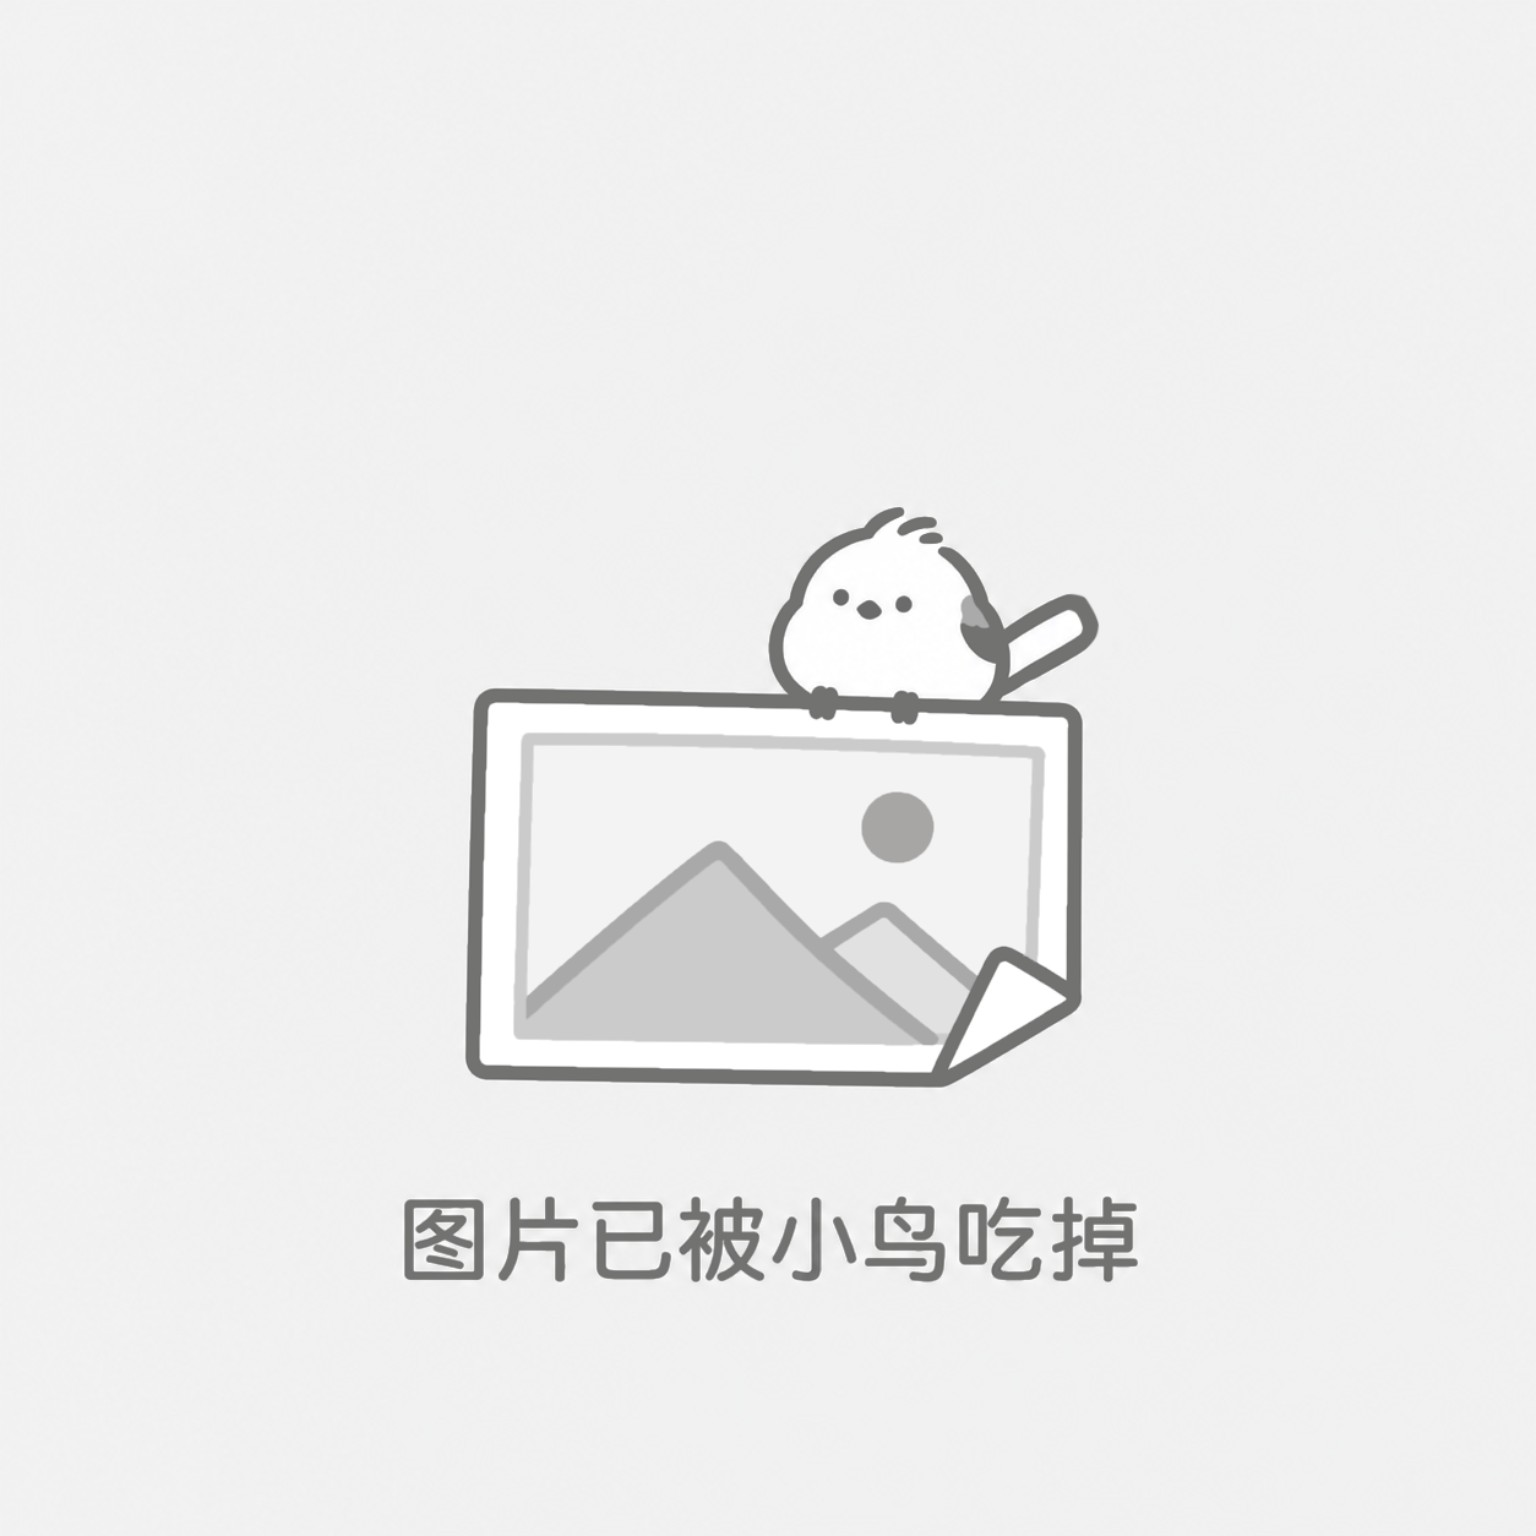
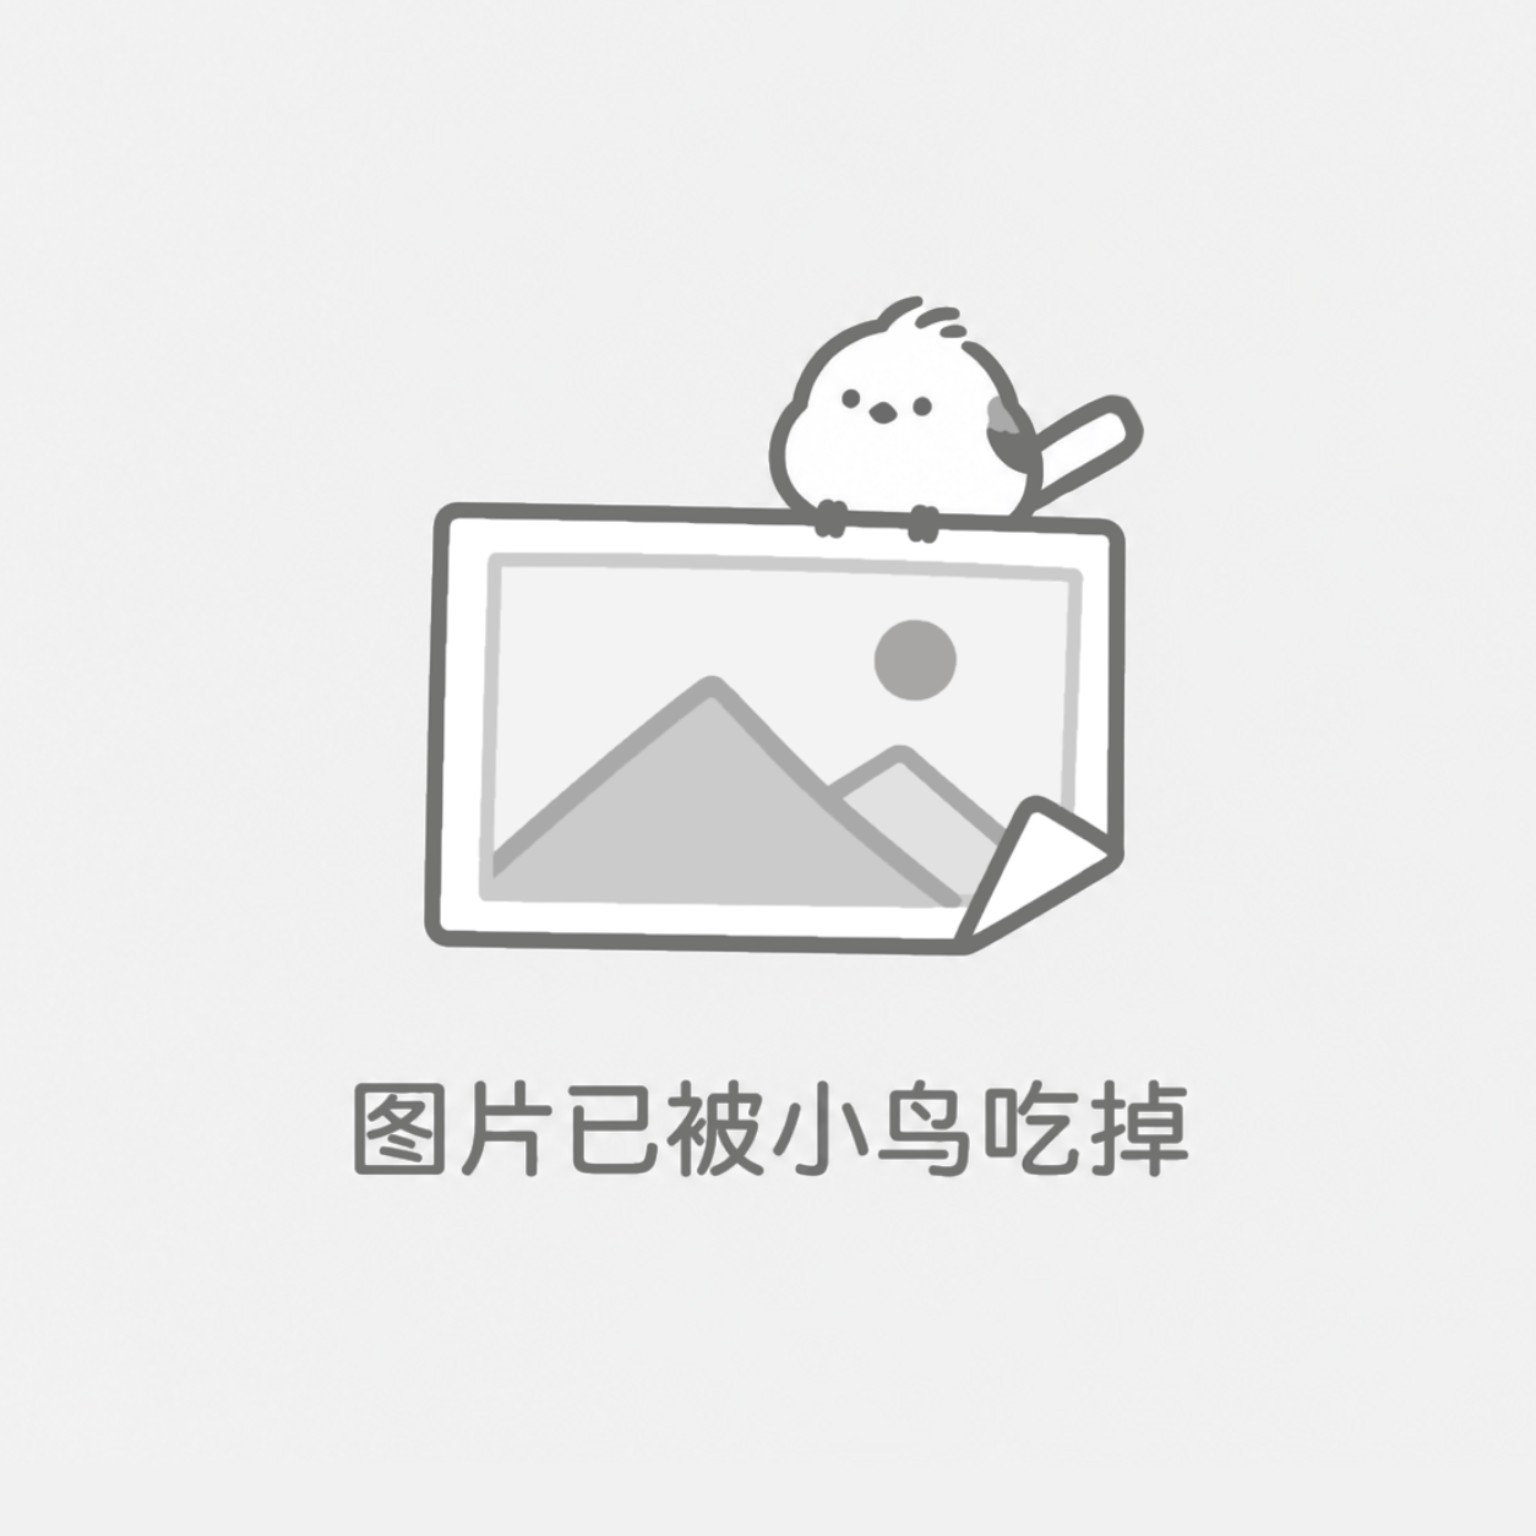
照片预设按框比例选宽版或普通版，更新浅色头像，移除图片库标签文字
- PhotoImage 观察实际框尺寸，宽高比 >= 1.4 用宽版预设，否则用普通版；尺寸变化时重新选择
- 新增 public/images/photo-placeholder-wide.png，替换普通预设与狐狸、小鸟头像
- 个人信息竖版拍立得使用普通预设
- 图片清理标题栏移除「本机图片库」文字及对应 CSS，保留关闭按钮
- 新增说明 docs/photo-preset-sizing.md

Claude-Session: https://claude.ai/code/session_016ZF5nt8Kb8CDXJc19mBmz1

Changed region(s): [[0.2188, 0.1875, 0.7812, 0.8438]]

diff --git a/src/components/shared/PhotoImage.tsx b/src/components/shared/PhotoImage.tsx
@@ -1,10 +1,19 @@
-import {useState, type ImgHTMLAttributes} from 'react';
-import {DEFAULT_PHOTO} from '../../utils/defaultPhoto';
-/** 上传图优先；未上传或读取失败时完整显示预设。 */
+import {useEffect,useRef,useState, type ImgHTMLAttributes} from 'react';
+import {DEFAULT_PHOTO,DEFAULT_PHOTO_WIDE} from '../../utils/defaultPhoto';
+/** 上传图优先；空照片按实际容器比例选择预设，避免方图在宽窗口里缩小。 */
 export function PhotoImage({src,style,onError,...props}:ImgHTMLAttributes<HTMLImageElement>){
   const [failed,setFailed]=useState<string>();
+  const [wide,setWide]=useState(false);
+  const image=useRef<HTMLImageElement>(null);
+  useEffect(()=>{
+    const element=image.current;if(!element)return;
+    const measure=()=>{const {width,height}=element.getBoundingClientRect();if(width>0&&height>0)setWide(width/height>=1.4);};
+    measure();
+    const observer=new ResizeObserver(measure);observer.observe(element);
+    return()=>observer.disconnect();
+  },[]);
   const custom=Boolean(src&&src!==failed);
-  return <img {...props} src={custom?src:DEFAULT_PHOTO} data-default-photo={!custom||undefined}
-    style={{...style,...(!custom?{objectFit:'contain',backgroundColor:'#f3f3f3'}:{})}}
+  return <img {...props} ref={image} src={custom?src:wide?DEFAULT_PHOTO_WIDE:DEFAULT_PHOTO} data-default-photo={!custom||undefined}
+    style={{...style,...(!custom?{objectFit:'contain',backgroundColor:'#f0f0f0'}:{})}}
     onError={event=>{if(custom)setFailed(src);onError?.(event);}}/>;
 }

diff --git a/src/pages/Settings/DataManagement/ImageStorageSettings.tsx b/src/pages/Settings/DataManagement/ImageStorageSettings.tsx
@@ -26,7 +26,7 @@ export function ImageStorageSettings({open,onClose}:{open:boolean;onClose:()=>vo
   return <section className="image-storage-tool" id="imageStorageSection" aria-labelledby="imageStorageTitle">
     <div className="image-storage-titlebar">
       <h3 id="imageStorageTitle"><svg viewBox="0 0 24 24" aria-hidden="true"><rect x="3" y="3" width="18" height="18" rx="1"/><circle cx="8" cy="8" r="1.5"/><path d="m3 17 5-5 4 4 3-3 6 6"/></svg>图片清理</h3>
-      <div className="image-storage-title-tools"><span>本机图片库</span><PressedButton className="image-storage-close" id="imageStorageCloseBtn" type="button" aria-label="关闭图片清理" onClick={onClose}><svg viewBox="0 0 12 12" aria-hidden="true"><rect x=".5" y=".5" width="11" height="11"/><path d="m3.5 3.5 5 5m0-5-5 5"/></svg></PressedButton></div>
+      <div className="image-storage-title-tools"><PressedButton className="image-storage-close" id="imageStorageCloseBtn" type="button" aria-label="关闭图片清理" onClick={onClose}><svg viewBox="0 0 12 12" aria-hidden="true"><rect x=".5" y=".5" width="11" height="11"/><path d="m3.5 3.5 5 5m0-5-5 5"/></svg></PressedButton></div>
     </div>
     <div className="image-storage-content" aria-busy={busy}>
       <div className="image-storage-intro">

diff --git a/src/pages/PersonalProfile/PersonalProfile.tsx b/src/pages/PersonalProfile/PersonalProfile.tsx
@@ -146,7 +146,7 @@ export function PersonalProfile() {
 {"\n            "}
 <div className={"pp2-polaroid-front"}>
 {"\n              "}
-<div role={"button"} tabIndex={0} aria-label={"点击添加或更换照片"} data-title={"点击添加或更换照片"} className={`pp2-polaroid-photo${profile.photo ? " has-photo" : ""}`} style={{ backgroundImage: `url("${profile.photo || DEFAULT_PHOTO}")`, backgroundSize: profile.photo ? "cover" : "contain", backgroundColor: profile.photo ? undefined : "#f3f3f3" }} onClick={profile.choosePhoto} onKeyDown={event => {
+<div role={"button"} tabIndex={0} aria-label={"点击添加或更换照片"} data-title={"点击添加或更换照片"} className={`pp2-polaroid-photo${profile.photo ? " has-photo" : ""}`} style={{ backgroundImage: `url("${profile.photo || DEFAULT_PHOTO}")`, backgroundSize: profile.photo ? "cover" : "contain", backgroundColor: profile.photo ? undefined : "#f0f0f0" }} onClick={profile.choosePhoto} onKeyDown={event => {
                   if (event.key === "Enter" || event.key === " ") {
                     event.preventDefault();
                     profile.choosePhoto();

diff --git a/src/pages/Settings/DataManagement/DataManagement.css b/src/pages/Settings/DataManagement/DataManagement.css
@@ -4,7 +4,7 @@
 .image-storage-titlebar { display: flex; align-items: center; justify-content: space-between; gap: 8px; padding: 8px 12px; border-bottom: 1px solid var(--color-muted); background: var(--color-page); }
 .image-storage-titlebar h3 { display: flex; align-items: center; gap: 5px; margin: 0; color: var(--color-text); font-size: 11px; font-weight: 600; letter-spacing: .8px; }
 .image-storage-titlebar h3 svg { width: 12px; height: 12px; fill: none; stroke: var(--set-fill, var(--win-deep)); stroke-width: 1.5; }
-.image-storage-title-tools { display: flex; align-items: center; gap: 8px; color: var(--color-muted); font-size: 9px; }
+.image-storage-title-tools { display: flex; align-items: center; }
 .image-storage-close { width: 12px; height: 12px; padding: 0; display: grid; place-items: center; border: 0; border-radius: 0; background: transparent; color: var(--win-line); box-shadow: none; cursor: pointer; }
 .image-storage-close svg { width: 12px; height: 12px; fill: none; stroke: currentColor; stroke-width: 1; }
 .image-storage-content { padding: 16px; }

diff --git a/src/utils/defaultPhoto.ts b/src/utils/defaultPhoto.ts
@@ -1,2 +1,3 @@
 /** 空照片位置的静态预设，不写入用户图片库。 */
 export const DEFAULT_PHOTO = `${import.meta.env.BASE_URL}images/photo-placeholder.png`;
+export const DEFAULT_PHOTO_WIDE = `${import.meta.env.BASE_URL}images/photo-placeholder-wide.png`;

diff --git a/docs/photo-preset-sizing.md b/docs/photo-preset-sizing.md
@@ -1,0 +1,11 @@
+# 预设图片尺寸与浅色头像
+
+基于 origin/main 02f07da。合并原源文件，不追加 CSS；dist 不在修改包内。
+
+直接复制本次用户上传原文件：279145 狐狸、279144 小鸟；279142 普通照片预设、279140 宽照片预设。头像沿用原路径，直接替换旧文件。星星/个人头像使用小鸟，月亮/角色头像使用狐狸。
+
+PhotoImage 观察实际图片框尺寸：宽高比 >= 1.4 使用宽版，否则使用普通版。窗口打开、尺寸改变时会重新选择。保持 contain 显示全部文字，上传图继续优先且沿用原裁切方式。个人信息竖版拍立得使用普通预设。世界书波点封面完整保留。
+
+删除图片清理标题栏“本机图片库”文字，并合并清理文字对应的无用 CSS。窗口叉号和关闭功能保留。
+
+验证：构建及 git diff --check 通过，18 项浏览器检查通过，包括宽窗口选择宽图、尺寸变化切换普通/宽预设、默认图加载、上传优先与刷新保存、关闭功能、标题图标颜色和无页面异常。静态预设不写入用户图片库。
